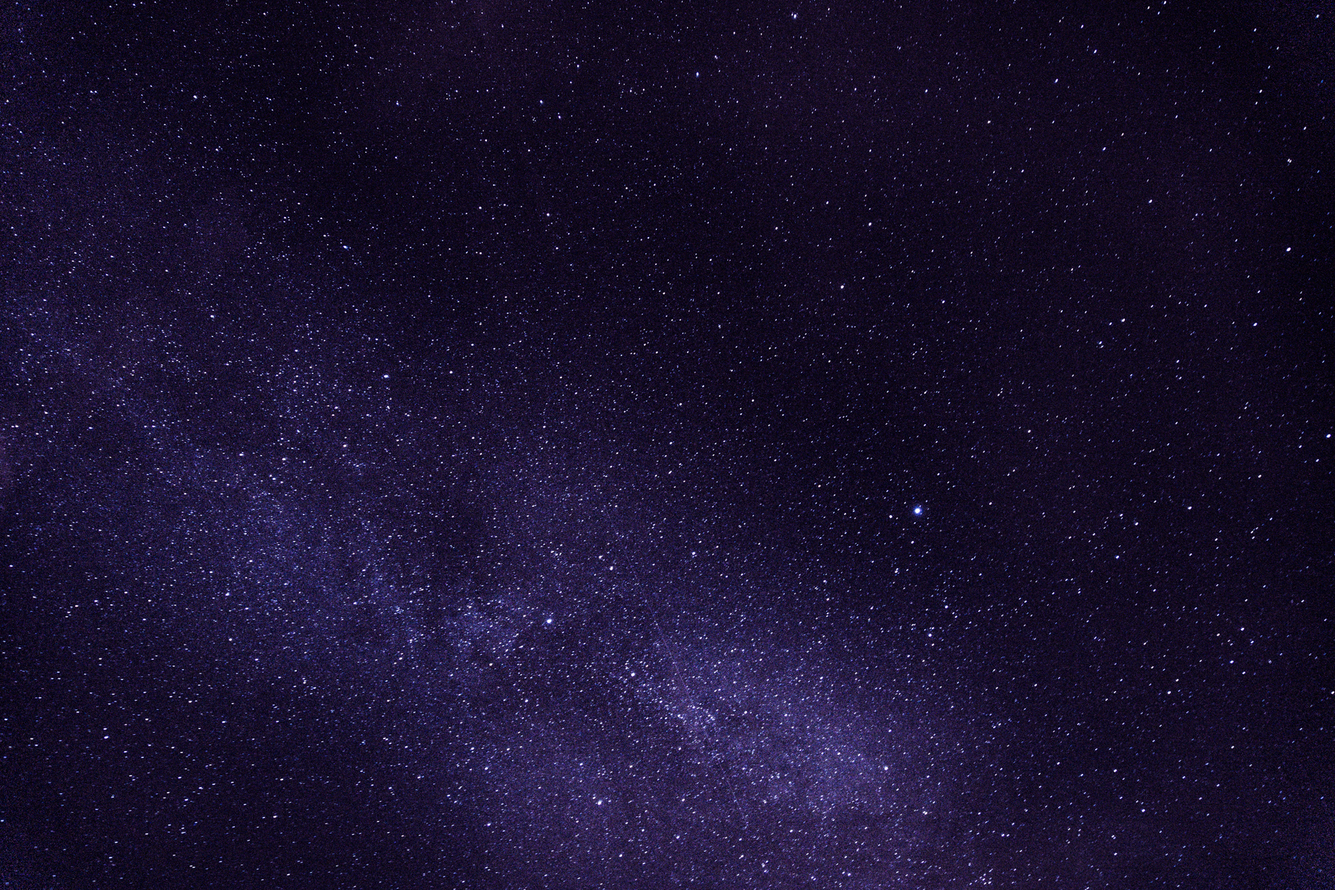
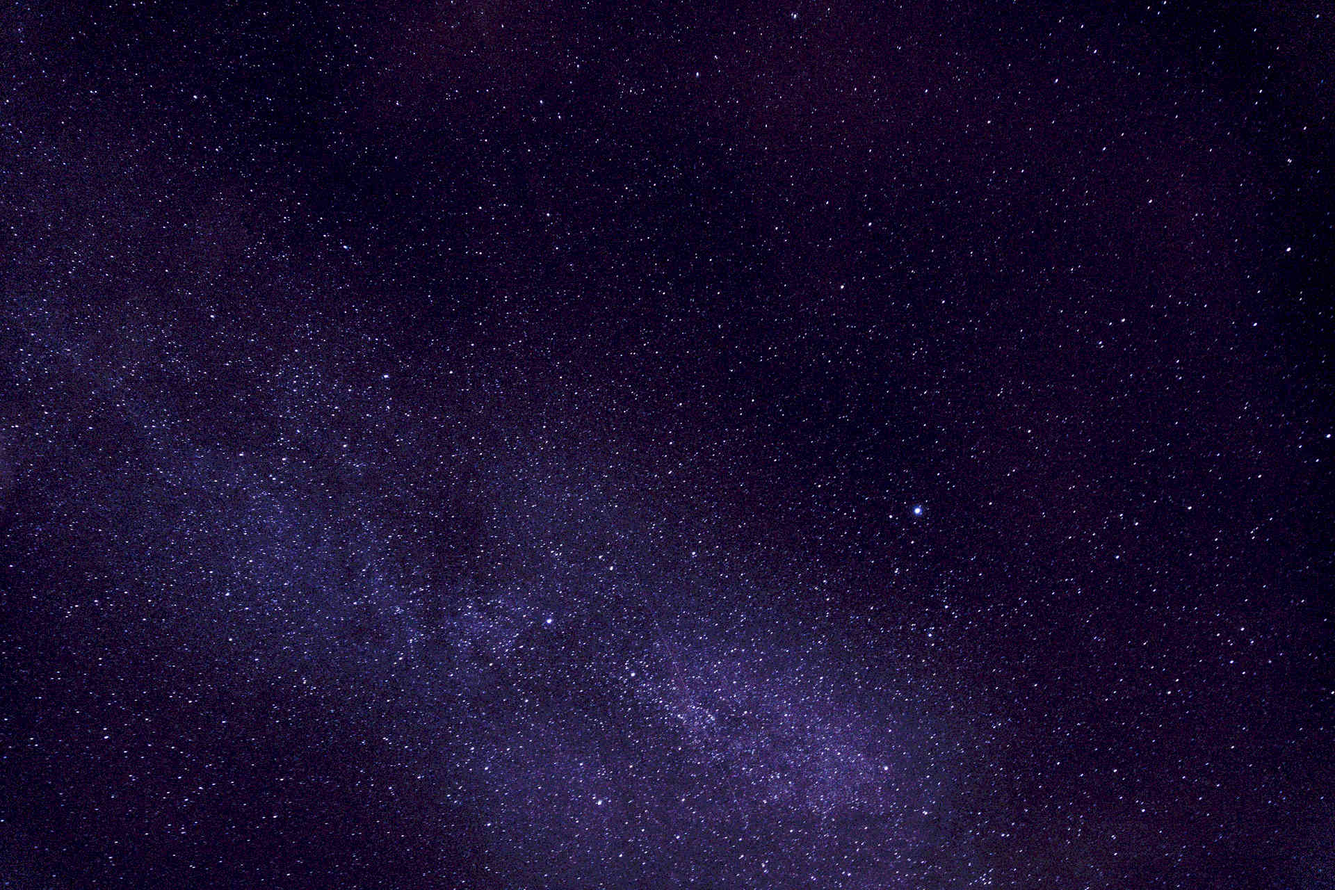
Remove hero-compressed.jpg image in favor of hero.jpg. We don't need to be changing the reference every time we update the hero image. It should always be `hero.jpg`.

diff --git a/_layouts/home.html b/_layouts/home.html
@@ -7,7 +7,7 @@ layout: base
   <!-- Hero Section
   ================================================== -->
   <div id="intro">
-    <div class="item hero" style="background: url('{% asset_path hero-compressed.jpg %}') no-repeat;">
+    <div class="item hero" style="background: url('{% asset_path hero.jpg %}') no-repeat;">
       <div class="container">
         <div class="row">
           <div class="carousel-caption-center colour-white">

diff --git a/_layouts/blog.html b/_layouts/blog.html
@@ -4,7 +4,7 @@ layout: base
 <div id="blog">
   {% include _nav.html %}
 
-  <div id="intro" style="background: url('{% asset_path hero-compressed.jpg %}') no-repeat;">
+  <div id="intro" style="background: url('{% asset_path hero.jpg %}') no-repeat;">
     <div class="hero">
       <h1>{{ site.blog.title }}</h1>
       <h4>{{ site.blog.subtitle }}</h4>
